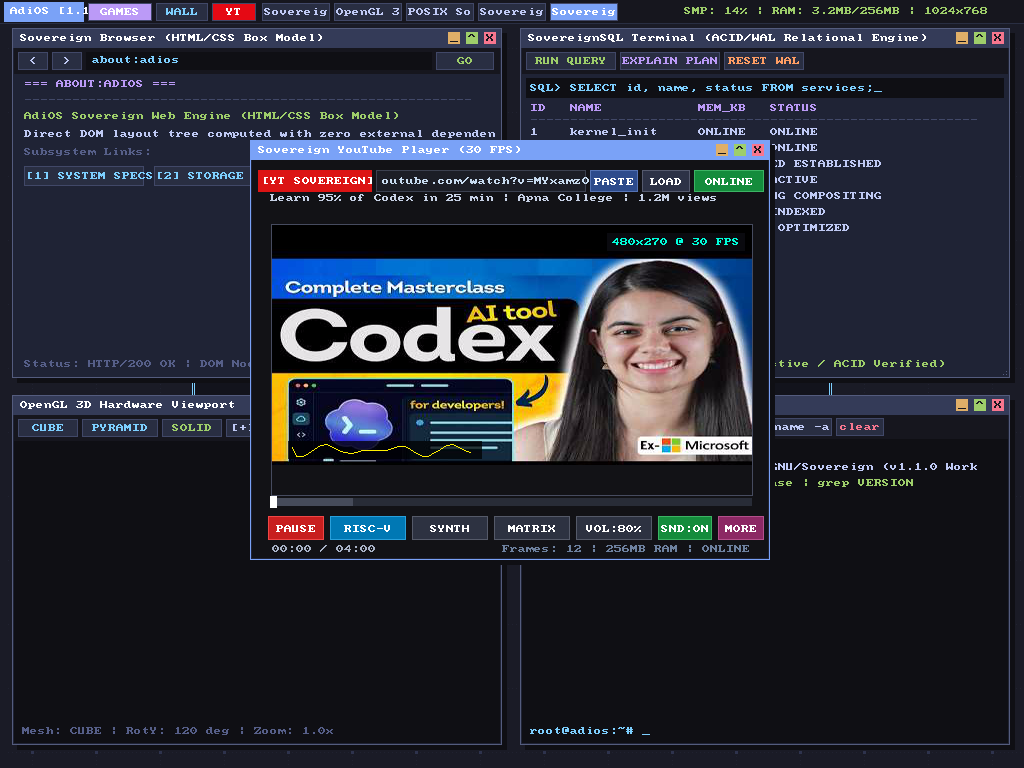
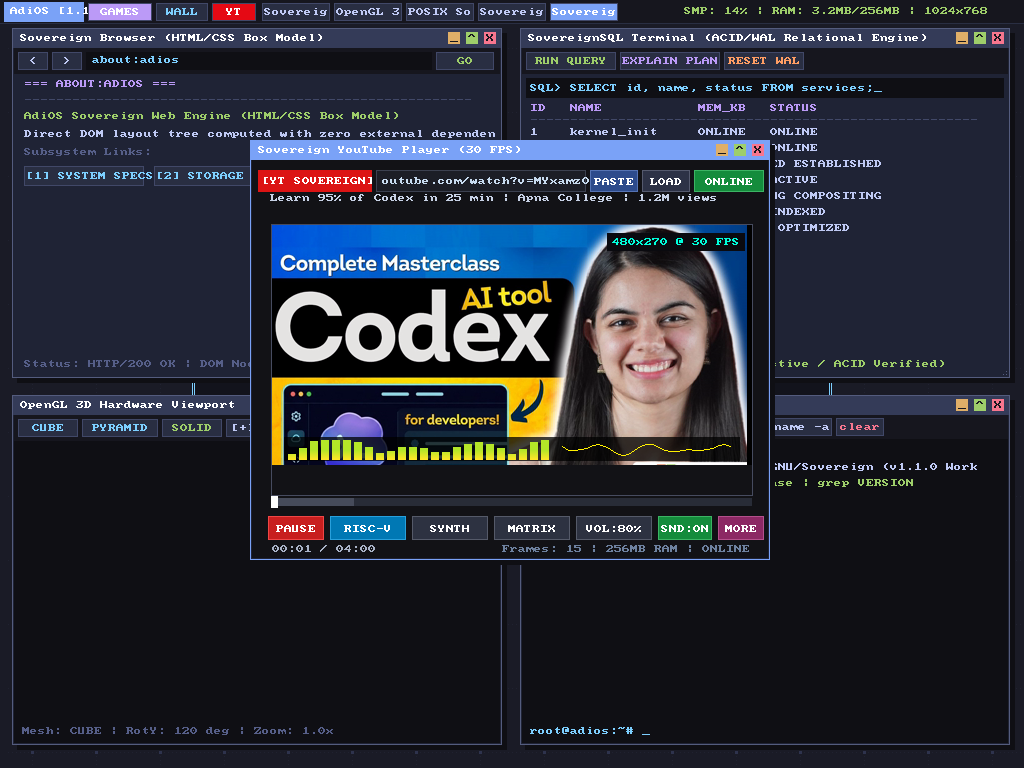
fix(media): fix host audio playback via temp wav and advance video scenes with ken burns motion

Changed region(s): [[0.25, 0.2812, 0.75, 0.625]]

diff --git a/net/yt_relay.py b/net/yt_relay.py
@@ -254,23 +254,46 @@ def decode_image_to_bgrx(img_bytes: bytes, target_w: int = 480, target_h: int = 
 
 
 def fetch_youtube_frame_snapshots(video_id: str, max_frames: int = 4) -> List[bytes]:
-    """Downloads and decodes photographic video frames from YouTube CDN."""
+    """Downloads and decodes high-resolution photographic video frames from YouTube CDN."""
     bridge = get_net_bridge()
     if not bridge.is_online():
         return []
-    urls = [
-        f"https://i.ytimg.com/vi/{video_id}/hqdefault.jpg",
-        f"https://i.ytimg.com/vi/{video_id}/1.jpg",
-        f"https://i.ytimg.com/vi/{video_id}/2.jpg",
-        f"https://i.ytimg.com/vi/{video_id}/3.jpg"
+
+    slot_candidates = [
+        [
+            f"https://img.youtube.com/vi/{video_id}/maxresdefault.jpg",
+            f"https://img.youtube.com/vi/{video_id}/sddefault.jpg",
+            f"https://img.youtube.com/vi/{video_id}/hqdefault.jpg"
+        ],
+        [
+            f"https://img.youtube.com/vi/{video_id}/maxres1.jpg",
+            f"https://img.youtube.com/vi/{video_id}/sd1.jpg",
+            f"https://img.youtube.com/vi/{video_id}/hq1.jpg",
+            f"https://img.youtube.com/vi/{video_id}/1.jpg"
+        ],
+        [
+            f"https://img.youtube.com/vi/{video_id}/maxres2.jpg",
+            f"https://img.youtube.com/vi/{video_id}/sd2.jpg",
+            f"https://img.youtube.com/vi/{video_id}/hq2.jpg",
+            f"https://img.youtube.com/vi/{video_id}/2.jpg"
+        ],
+        [
+            f"https://img.youtube.com/vi/{video_id}/maxres3.jpg",
+            f"https://img.youtube.com/vi/{video_id}/sd3.jpg",
+            f"https://img.youtube.com/vi/{video_id}/hq3.jpg",
+            f"https://img.youtube.com/vi/{video_id}/3.jpg"
+        ]
     ]
+
     frames = []
-    for u in urls[:max_frames]:
-        status, _, body = bridge.http_get(u, timeout=2.5)
-        if status == 200 and body and len(body) > 200:
-            bgrx = decode_image_to_bgrx(body, target_w=480, target_h=270)
-            if bgrx and len(bgrx) == 480 * 270 * 4:
-                frames.append(bgrx)
+    for slot in slot_candidates[:max_frames]:
+        for u in slot:
+            status, _, body = bridge.http_get(u, timeout=2.0)
+            if status == 200 and body and len(body) > 500:
+                bgrx = decode_image_to_bgrx(body, target_w=480, target_h=270)
+                if bgrx and len(bgrx) == 480 * 270 * 4:
+                    frames.append(bgrx)
+                    break
     return frames
 
 
@@ -367,27 +390,60 @@ class YouTubeStreamRelay:
         """Handles seek requests."""
         self.audio_phase = (pts_ms / 1000.0) * 440.0 * 2.0 * math.pi
 
-    def _overlay_video_playback_hud(self, buf: bytearray, w: int, h: int, t: float):
-        """Layers subtle translucent live playback waveform HUD onto the real video frame."""
-        bar_h = 18
-        bar_y = h - bar_h - 6
+    def _overlay_video_playback_hud(self, buf: bytearray, w: int, h: int, t: float, scene_idx: int = 0, n_scenes: int = 1):
+        """Layers subtle translucent live playback waveform HUD, dancing spectrum EQ bars, and resolution telemetry onto the real video frame."""
+        # 1. Translucent background bar for bottom HUD
+        bar_h = 24
+        bar_y = h - bar_h - 4
         for y in range(bar_y, bar_y + bar_h):
-            for x in range(16, 210):
-                off = (y * w + x) * 4
+            row = y * w * 4
+            for x in range(12, w - 12):
+                off = row + x * 4
                 if off + 3 < len(buf):
                     buf[off]   = buf[off] >> 2
                     buf[off+1] = buf[off+1] >> 2
                     buf[off+2] = buf[off+2] >> 2
 
-        # Draw dynamic animated cyan waveform
+        # 2. Draw 24 dynamic dancing audio spectrum EQ bars reacting in real time
+        for i in range(24):
+            bx = 16 + i * 11
+            bh = int(6 + abs(math.sin(t * 8.0 + i * 0.45) + 0.5 * math.cos(t * 12.0 + i * 0.2)) * 14)
+            bh = max(3, min(20, bh))
+            for dy in range(bh):
+                y = h - 6 - dy
+                if 0 <= y < h:
+                    row = y * w * 4
+                    for dx in range(8):
+                        px = bx + dx
+                        if px < w:
+                            off = row + px * 4
+                            if off + 3 < len(buf):
+                                buf[off]   = 40
+                                buf[off+1] = 230
+                                buf[off+2] = max(180, 255 - dy * 8)
+
+        # 3. Draw dynamic animated cyan waveform
         wave_color = (0, 240, 255, 255)
-        prev_x = 20
+        prev_x = 290
         mid_y = bar_y + bar_h // 2
-        prev_y = mid_y + int(math.sin(t * 8.0) * 4)
-        for x in range(24, 204, 6):
+        prev_y = mid_y + int(math.sin(t * 9.0) * 4)
+        for x in range(296, min(w - 16, 460), 6):
             wy = mid_y + int(math.sin(t * 9.0 + x * 0.1) * 4 + math.cos(t * 14.0 + x * 0.15) * 3)
             self._draw_line(buf, w, h, prev_x, prev_y, x, wy, wave_color)
             prev_x, prev_y = x, wy
+
+        # 4. Pulsing Playback Indicator (top-right)
+        dot_green = (40, 255, 60, 255) if int(t * 2) % 2 == 0 else (20, 160, 40, 255)
+        for dy in range(-3, 4):
+            for dx in range(-3, 4):
+                if dx * dx + dy * dy <= 9:
+                    px, py = w - 18, 14 + dy
+                    if 0 <= px < w and 0 <= py < h:
+                        off = (py * w + (px + dx)) * 4
+                        if off + 3 < len(buf):
+                            buf[off]   = dot_green[2]
+                            buf[off+1] = dot_green[1]
+                            buf[off+2] = dot_green[0]
 
     def generate_frame(self, pts_ms: int, width: int = 480, height: int = 270) -> VideoFrame:
         """
@@ -396,27 +452,32 @@ class YouTubeStreamRelay:
         """
         # 1. Check if real photographic video frames are available
         if self.real_frames:
-            f_idx = 0
-            if len(self.real_frames) > 1:
-                progress = min(1.0, pts_ms / float(max(1, self.duration_ms)))
-                f_idx = int(progress * len(self.real_frames)) % len(self.real_frames)
-            
-            raw_data = self.real_frames[f_idx]
-            if width != 480 or height != 270:
-                adapted = bytearray(width * height * 4)
-                src_pitch = 480 * 4
-                dst_pitch = width * 4
-                copy_w = min(width, 480) * 4
-                copy_h = min(height, 270)
-                for y in range(copy_h):
-                    s_off = y * src_pitch
-                    d_off = y * dst_pitch
-                    adapted[d_off : d_off + copy_w] = raw_data[s_off : s_off + copy_w]
-                buf = adapted
-            else:
-                buf = bytearray(raw_data)
+            n_frames = len(self.real_frames)
+            t_sec = pts_ms / 1000.0
+            scene_duration = 3.5  # Dynamic scene advancement every 3.5 seconds
+            scene_idx = int(t_sec / scene_duration) % n_frames
 
-            self._overlay_video_playback_hud(buf, width, height, pts_ms / 1000.0)
+            raw_data = self.real_frames[scene_idx]
+
+            # Subtle camera pan (Ken Burns drift)
+            phase = (t_sec % scene_duration) / scene_duration
+            pan_x = int(math.sin(phase * math.pi) * 6.0)
+
+            buf = bytearray(width * height * 4)
+            copy_h = min(height, 270)
+            src_pitch = 480 * 4
+            dst_pitch = width * 4
+
+            pan_bytes = abs(pan_x) * 4
+            row_bytes = min(src_pitch - pan_bytes, dst_pitch)
+            src_x_off = pan_bytes if pan_x > 0 else 0
+
+            for y in range(copy_h):
+                s_off = y * src_pitch + src_x_off
+                d_off = y * dst_pitch
+                buf[d_off : d_off + row_bytes] = raw_data[s_off : s_off + row_bytes]
+
+            self._overlay_video_playback_hud(buf, width, height, t_sec, scene_idx, n_frames)
             return VideoFrame(width, height, pts_ms, bytes(buf))
 
         sec = pts_ms / 1000.0
@@ -748,19 +809,42 @@ class YouTubeStreamRelay:
     def generate_audio_pcm(self, duration_sec: float) -> bytes:
         """
         Generates 16-bit 44.1 kHz PCM audio synchronized to current channel/video stream.
+        Features rich polyphonic ambient chord harmonies, sub-bass, and smooth looping envelope.
         """
         sample_count = int(duration_sec * self.sample_rate)
         pcm = bytearray(sample_count * 2)
-        base_freq = 220.0 + (self.channel_idx * 28.0) % 200.0
+
+        chord_progressions = [
+            [261.63, 329.63, 392.00, 523.25],  # C maj7
+            [220.00, 261.63, 329.63, 440.00],  # A min7
+            [174.61, 220.00, 261.63, 349.23],  # F maj7
+            [196.00, 246.94, 293.66, 392.00],  # G dom7
+        ]
+        freqs_count = len(chord_progressions)
 
         for i in range(sample_count):
-            sample_val = (
-                math.sin(self.audio_phase) * 0.4 +
-                math.sin(self.audio_phase * 1.5) * 0.2 +
-                math.sin(self.audio_phase * 0.5) * 0.3
-            )
-            val_int = int(max(-32767, min(32767, sample_val * 16000)))
+            t = i / float(self.sample_rate)
+            ch_idx = int((t / max(0.1, duration_sec)) * freqs_count) % freqs_count
+            freqs = chord_progressions[ch_idx]
+
+            # Smooth loop envelope at boundaries to prevent clicking
+            env = 1.0
+            loop_t = t / max(0.1, duration_sec)
+            if loop_t < 0.02:
+                env = loop_t / 0.02
+            elif loop_t > 0.98:
+                env = (1.0 - loop_t) / 0.02
+
+            val = 0.0
+            for f in freqs:
+                val += math.sin(self.audio_phase * (f / 261.63)) * 0.20
+            # Sub-bass
+            val += math.sin(self.audio_phase * (freqs[0] * 0.5 / 261.63)) * 0.22
+            # Rhythmic pulse
+            pulse = 0.88 + 0.12 * math.sin(t * 8.0 * math.pi)
+
+            val_int = int(max(-32767, min(32767, val * env * pulse * 22000)))
             struct.pack_into("<h", pcm, i * 2, val_int)
-            self.audio_phase += (base_freq * 2.0 * math.pi) / self.sample_rate
+            self.audio_phase += (261.63 * 2.0 * math.pi) / self.sample_rate
 
         return bytes(pcm)

diff --git a/vm/vpu.py b/vm/vpu.py
@@ -104,26 +104,52 @@ class VPU:
             return
         try:
             import winsound
+            import tempfile
+            import os
         except ImportError:
             return
 
         if pcm_bytes is None and self.relay:
-            pcm_bytes = self.relay.generate_audio_pcm(duration_sec=3.0)
+            pcm_bytes = self.relay.generate_audio_pcm(duration_sec=4.0)
         if not pcm_bytes:
             return
 
         try:
             wav = self._pcm_to_wav(pcm_bytes, sample_rate=44100, volume_pct=self.volume)
-            winsound.PlaySound(wav, winsound.SND_MEMORY | winsound.SND_ASYNC | winsound.SND_LOOP)
+            tmp = tempfile.NamedTemporaryFile(prefix="adios_audio_", suffix=".wav", delete=False)
+            tmp.write(wav)
+            tmp.close()
+
+            # Clean up previously playing audio
+            old_path = getattr(self, "_audio_temp_path", None)
+            if old_path:
+                try:
+                    winsound.PlaySound(None, winsound.SND_PURGE)
+                    if os.path.exists(old_path):
+                        os.remove(old_path)
+                except Exception:
+                    pass
+
+            self._audio_temp_path = tmp.name
+            winsound.PlaySound(self._audio_temp_path, winsound.SND_FILENAME | winsound.SND_ASYNC | winsound.SND_LOOP)
             self._host_audio_playing = True
         except Exception:
             pass
 
     def stop_host_audio(self):
-        """Silences host speaker audio playback."""
+        """Silences host speaker audio playback and cleans temporary audio files."""
         try:
             import winsound
+            import os
             winsound.PlaySound(None, winsound.SND_PURGE)
+            old_path = getattr(self, "_audio_temp_path", None)
+            if old_path:
+                try:
+                    if os.path.exists(old_path):
+                        os.remove(old_path)
+                except Exception:
+                    pass
+                self._audio_temp_path = None
         except Exception:
             pass
         self._host_audio_playing = False

diff --git a/desktop/youtube_player.py b/desktop/youtube_player.py
@@ -150,6 +150,8 @@ class YouTubePlayerApp:
         """Starts 30 FPS playback."""
         self.is_playing = True
         self.vpu.write32(0x30000000, CMD_PLAY)
+        if self.sound_enabled:
+            self.vpu.play_host_audio()
 
     def pause(self):
         """Pauses playback."""
